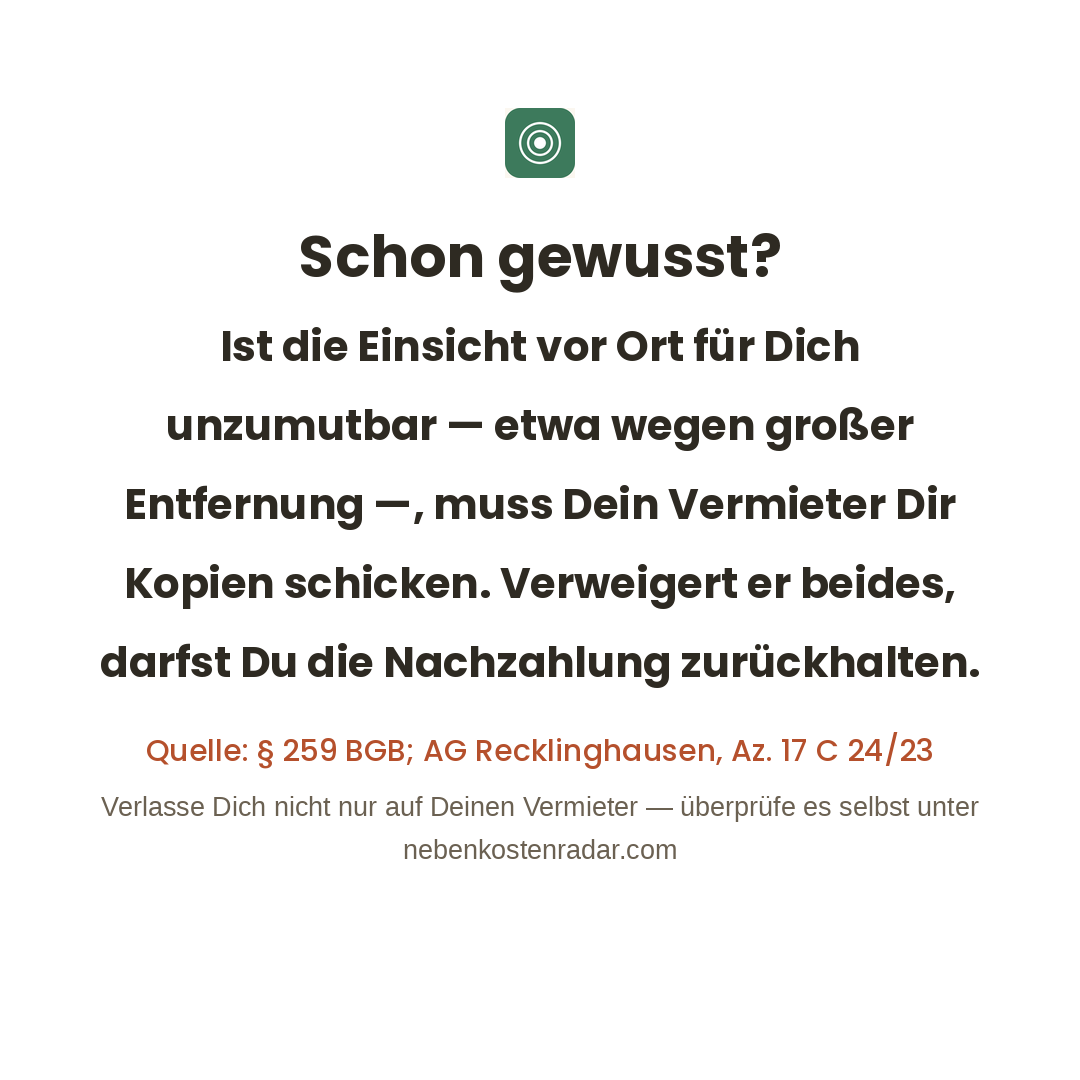
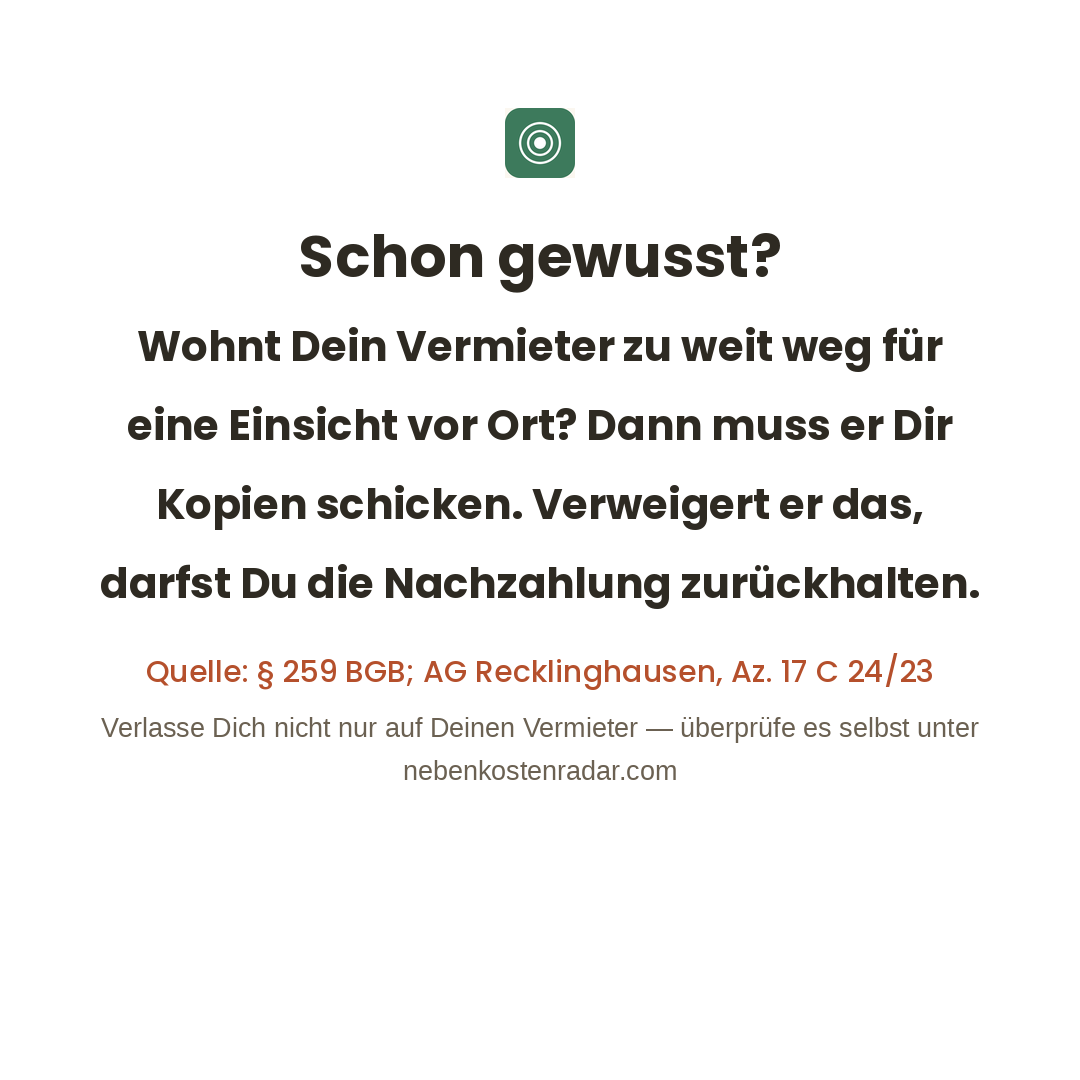
Add files via upload

Changed region(s): [[0.0917, 0.5194, 0.9167, 0.7944], [0.0917, 0.3667, 0.8861, 0.4889], [0.1222, 0.3056, 0.8861, 0.3361]]

diff --git a/planung/businessplan-umsatzprognose.md b/planung/businessplan-umsatzprognose.md
@@ -120,11 +120,43 @@ Größte Unsicherheit, aber auch der Zeitraum, in dem SEO laut Recherche "volle 
 | Anbieter | Preis | Modell | Positionierung |
 |---|---|---|---|
 | **Mineko** | Ab 49 € (Vollprüfung), kostenlose Erstscheinschätzung | Manuelle Expertenprüfung, 24+ Prüfer | Marktführer, teuer, ausführlich (ca. 30-seitiger Bericht) |
-| **NebenkostenPro** | 5 € | KI-basiert, Ergebnis in Minuten | Direkter KI-Konkurrent, günstiger als NebenkostenRadar |
+| **NebenkostenPro** | Vorschau 0 €, Schnell-Check 7,90 €, Premium-Report 14,90 € | KI-basiert, Ergebnis in Minuten | Preis am 23.08.2026 direkt auf nebenkostenpro.de/preise geprüft — die zuvor hier stehenden 5 € waren veraltet (Quelle war eine Suchergebnis-Zusammenfassung, keine Primärquelle). Bedient zusätzlich Vermieter (Jahrespakete, Abrechnung erstellen) — zweites Standbein, das NKR nicht hat. |
 | **nebify** | Kostenloser Vorab-Check, Prüfbericht ab 14,90 € | KI-Vorab-Check + kostenpflichtiger Report (48 Std.), inkl. Widerspruchsschreiben | Von Stefan am 19.08.2026 entdeckt, sehr ähnlicher zeitlicher Bauzeitraum. Fast identischer Funnel (kostenloser Check → kostenpflichtiger Report + Musterbrief), aber **explizite Geld-zurück-Garantie** ("Wir finden nichts? Du zahlst nichts.") und durchgängige "Geld zurückfordern"-Sprache — genau die Positionierung, gegen die sich NebenkostenRadar bewusst entschieden hat (siehe Kommentar in `Welcome.jsx` zur gestrichenen "Ø 320€ mögliche Rückforderung"-Kachel). Verlangt zusätzlich den Mietvertrag (optional), hat veröffentlichte anonymisierte Fallbeispiele ("Unsere Fälle") und Trustpilot-Verlinkung — Social-Proof-Elemente, die NebenkostenRadar bisher nicht nutzt (Trustpilot-Account existiert, ist aber noch ohne Bewertungen/Aktivität; Stand 23.08.2026). Betreiber: Kolibri eCommerce GbR (Quelle: nebify.de, direkt eingesehen 19.08.2026). |
 | **NebenkostenRadar** | 9,99 € / 12,99 € | KI-basiert, automatisiert | Zwischen NebenkostenPro (billiger) und Mineko/nebify (teurer bzw. mit Geld-zurück-Versprechen) |
 
 ([Quelle Mineko/NebenkostenPro: Anbietervergleich](https://www.heizkostenchecker.de/blog/nebenkostenabrechnung-pruefen-lassen-anbieter-test), nicht selbst verifiziert, nur eine externe Quelle — bei einer wichtigen Positionierungsentscheidung würde ich das noch mit 1–2 weiteren Quellen gegenchecken. nebify-Angaben dagegen direkt von nebify.de selbst eingesehen, damit Primärquelle.)
+
+### 5.1 Vertiefte Konkurrenzanalyse (23.08.2026, alle drei Anbieter direkt besucht)
+
+Alle Angaben unten stammen aus einem direkten Besuch der jeweiligen Website am 23.08.2026, nicht aus Sekundärquellen.
+
+**Was die Konkurrenz besser kann:**
+
+- **Mineko**: Skalierte Vertrauensbeweise. 149.000+ geprüfte Abrechnungen, 775 + 1.283 Bewertungen auf zwei Plattformen, echte namentliche Kundenstimmen mit Beträgen. Über 16 Rechtsschutzversicherungen empfehlen Mineko aktiv — das ist ein strukturell kostenloser Vertriebskanal, den NKR nicht hat und kaum kopieren kann (setzt Jahre an Beziehungsaufbau mit Versicherern voraus). Große SEO-Fläche: dutzende Ratgeber-Artikel, eigener Fristenrechner als interaktives Lead-Tool, städtespezifische Footer-Links (Berlin, München, Hamburg, Köln, Leipzig, Stuttgart, Bremen).
+- **NebenkostenPro**: Programmatische Stadt-Landingpages (z. B. "Nebenkostenabrechnung prüfen Hamburg", "…München") — eine skalierbare SEO-Taktik, die NKR aktuell nicht nutzt. Zusätzliches Geschäftsfeld: Vermieter-Jahrespakete und Abrechnung-Erstellung, nicht nur Prüfung. Betont explizit "Server in Deutschland" als Vertrauenssignal.
+- **nebify**: Sehr konkrete Social Proof: "Unsere Fälle" mit echten, anonymisierten Prüfergebnissen (Betrag, Datum, Stadt, konkrete Rechtsgrundlage, verlinkter Volltext). Interaktive Produkt-Vorschau direkt auf der Startseite (Beispiel-Prüfbericht mit echten Zahlen). Breite Zahlungsmethoden über Stripe (Visa, Mastercard, Amex, Apple Pay, Google Pay, PayPal, Klarna, SEPA) — deutlich mehr als NKRs zwei Payment Links. Geld-zurück-Garantie ist zentrales Werbeversprechen, mehrfach wiederholt.
+
+**Was NKR besser kann bzw. bewusst anders macht:**
+
+- Ehrliche Positionierung ohne Geld-zurück-Garantie (siehe Abschnitt 1 werbeplan-nkr.md) — Risiko bei nebify: die Garantie verspricht mehr, als eine automatisierte Prüfung im Einzelfall sicher halten kann.
+- Klare Trennung Auswertung / Auswertung+Brief+Steuer-Bonus zu einem Fixpreis (9,99 €/12,99 €) ohne Tarif-Dschungel — einfacher als NebenkostenPros Drei-Stufen-Tabelle mit Zusatz-eBook.
+- Steuer-Bonus-Hinweis (§ 35a EStG) als eigenständiges Merkmal — keiner der drei Wettbewerber bewirbt das vergleichbar prominent.
+
+**Was NKR übernehmen sollte (konkrete, umsetzbare Punkte):**
+
+1. Programmatische Stadt-Landingpages nach NebenkostenPro-Vorbild (z. B. "Nebenkostenabrechnung prüfen Berlin/Hamburg/München") — skaliert SEO ohne redaktionellen Mehraufwand pro Stadt, da Inhalt aus vorhandenen Richtwerten generierbar ist. Größerer Umsetzungsaufwand, für Backlog vormerken.
+2. Anonymisierte echte Fallbeispiele nach nebify-Vorbild ("Diese Abrechnung wurde geprüft, X € gefunden, Rechtsgrundlage Y") — sobald genug echte Kundenfälle mit Einwilligung vorliegen. Governance-frage: Einwilligung zur anonymisierten Veröffentlichung müsste sauber eingeholt werden (Datenschutz).
+3. Mehr Zahlungsmethoden prüfen (aktuell nur Stripe Payment Links) — Klarna/Apple Pay/Google Pay senken ggf. Kaufabbrüche, müsste technisch mit Stripe Checkout statt Payment Links geprüft werden.
+
+**Was strukturell zum jeweiligen Geschäftsmodell gehört, nicht übertragbar:**
+
+- Mineko: Rechtsschutzversicherer-Partnerschaften brauchen Jahre Beziehungsarbeit, kein kurzfristiger Hebel.
+- Mineko/NebenkostenPro: manuelle Experten (Mineko) bzw. Vermieter-Zusatzgeschäft (NebenkostenPro) sind eigene Geschäftsmodell-Entscheidungen, kein Feature-Nachbau.
+- nebify: Geld-zurück-Garantie ist eine bewusste Risikoentscheidung von nebify (Betreiber Kolibri eCommerce GbR), die NKR bereits geprüft und abgelehnt hat (siehe werbeplan-nkr.md Abschnitt 6).
+
+**Kalkulations-Einordnung:** NKR liegt preislich zwischen NebenkostenPro (7,90 €/14,90 €, direkter Konkurrent auf Augenhöhe) und Mineko/nebify (49 € bzw. ab 14,90 € mit Garantie-Aufschlag). Das bestätigt die bisherige Positionierung "zwischen NebenkostenPro und Mineko/nebify" weiterhin — Mineko ist wegen der Versicherer-Kanäle kein direkter Preisvergleich, da ein großer Teil der Kunden dort faktisch 0 € zahlt.
+
+**Randnotiz zur "jede zweite Abrechnung ist fehlerhaft"-Zahl:** nebify nennt jetzt selbst die genaue Quelle: „Deutscher Mieterbund e.V.; Mieterverein Düsseldorf e.V., Pressemitteilung 'Jede zweite Nebenkostenabrechnung ist fehlerhaft!' (08.10.2025)". Die Original-Pressemitteilung selbst bleibt trotz drei Versuchen nicht auffindbar. Gefunden dagegen: eine wortgleiche Meldung des Gießener Mietervereins vom 16.10.2023 (zwei Jahre früher, andere Stadt) mit derselben Formulierung. Das spricht dafür, dass es sich um eine wiederkehrende, von mehreren Mietervereinen über Jahre verwendete Faustregel handelt, nicht um eine einzelne, einmalige Studie — für eigene Verwendung auf der Website entsprechend als Faustregel, nicht als belastbare Studienzahl einordnen.
 
 Relevant für deine Positionierung: Es gibt bereits einen günstigeren KI-Wettbewerber (NebenkostenPro) und jetzt auch einen nahezu identischen mit aggressiverer Geld-zurück-Positionierung (nebify). "Von Mieter für Mieter" (dein bereits gewählter Vertrauens-Claim) und die Qualität/Verständlichkeit deiner Analyse sind vermutlich wichtigere Differenzierungsmerkmale als der Preis allein — bei 5 € Konkurrenz gewinnst du den Preiskampf nicht, und bei einer Geld-zurück-Garantie auch nicht das Werbeversprechen. Die ehrlichere, zurückhaltendere Positionierung (kein Geld-zurück-Versprechen, siehe Abschnitt weiter oben zu "Rechtssicher") wird durch nebifys Auftreten eher bestätigt als infrage gestellt — es ist jetzt eine bewusste Abgrenzung, kein reiner Vorsichtsgrund mehr.
 

diff --git a/planung/projektdokumentation-nkr.md b/planung/projektdokumentation-nkr.md
@@ -52,7 +52,7 @@ Offene/laufend zu pflegende Punkte stehen im CHANGELOG.md mit Datum — das blei
 Vollständige Analyse (Kosten, Umsatzprognose, Break-even, Wettbewerbsvergleich Mineko/NebenkostenPro/nebify, Zeitplan): **`planung/businessplan-umsatzprognose.md`**. Wichtigste Eckpunkte von dort:
 
 - Ziel realistisch eingeordnet: 250–1.000 Verkäufe/Jahr (Abschnitt 9), nicht als Behauptung, sondern als Spanne mit Annahmen
-- Wettbewerb: Mineko (≥49€, manuelle Prüfung), NebenkostenPro (5€, KI-basiert), nebify (kostenloser Vorab-Check, Prüfbericht ab 14,90€, Geld-zurück-Garantie, betrieben von Kolibri eCommerce GbR) — NKR positioniert sich bewusst zurückhaltender (keine Geld-zurück-Garantie, da diese ein Versprechen macht, das die automatisierte Prüfung nicht in jedem Fall halten kann)
+- Wettbewerb: Mineko (ab 49€ oder kostenlos über 16+ Rechtsschutzversicherer, manuelle Prüfung durch 24+ Prüfer, 149.000+ geprüfte Abrechnungen), NebenkostenPro (Vorschau 0€, Schnell-Check 7,90€, Premium-Report 14,90€, KI-basiert, zusätzlich Vermieter-Geschäft), nebify (kostenloser Vorab-Check, Prüfbericht ab 14,90€, Geld-zurück-Garantie, echte Fallbeispiele als Social Proof, betrieben von Kolibri eCommerce GbR) — NKR positioniert sich bewusst zurückhaltender (keine Geld-zurück-Garantie, da diese ein Versprechen macht, das die automatisierte Prüfung nicht in jedem Fall halten kann). Vertiefte Analyse (was übertragbar ist, was nicht) in `planung/businessplan-umsatzprognose.md` Abschnitt 5.1.
 
 ## 6. Marketing & Werbung
 
@@ -81,6 +81,7 @@ Stefans persönliche Aufwands-/Ertragsdokumentation für die eigene Steuererklä
 
 ## 9. Offene Punkte
 
+- **Backlog-Idee (nicht kurzfristig umsetzbar), 23.08.2026 aus Foren-Recherche**: Jahresvergleich Verbrauch — Nutzer in r/wohnen konnte einen plötzlichen Verbrauchsanstieg (Warmwasser +100 %, vermutlich defekter Zähler) nicht gegen die Abrechnung argumentieren. NKR vergleicht aktuell nur gegen DMB-Richtwerte, nicht gegen den eigenen Vorjahreswert. Setzt voraus, dass ein Nutzer mit Konto die Vorjahresabrechnung schon einmal erfasst hat — nur für wiederkehrende Nutzer sinnvoll, daher als späterer Ausbauschritt vormerken, nicht jetzt bauen.
 - ~~Neue weiße Hintergrundbilder für 6 geplante Werbe-Posts~~ — erledigt 22.08.2026: alle 13 benötigten Bilder per Python/Pillow (lokale Poppins-Schriftart, kein externes Tool) erzeugt. Ordner `marketing/meta-kampagne/instagram-content/` ist jetzt in `online gestellt/` (6 Dateien, tatsächlich live, Wortlaut mit echtem Insta-Stand abgeglichen) und `noch nicht online/` (8 Dateien) unterteilt.
-- nebify-Primärquelle (Mieterverein Düsseldorf, behauptetes Pressemitteilungsdatum 08.10.2025) nicht verifiziert — Fetch zweimal fehlgeschlagen
+- nebify-Primärquelle: nebify nennt auf der eigenen Seite jetzt die exakte Quelle ("Deutscher Mieterbund e.V.; Mieterverein Düsseldorf e.V., Pressemitteilung „Jede zweite Nebenkostenabrechnung ist fehlerhaft!", 08.10.2025"). Die Pressemitteilung selbst bleibt nach drei Versuchen nicht auffindbar. Gefunden: eine wortgleiche Meldung des Gießener Mietervereins vom 16.10.2023 (andere Stadt, zwei Jahre früher). Einordnung: vermutlich eine seit Jahren wiederkehrende Faustregel mehrerer Mietervereine, keine einzelne belegbare Studie — Details in `planung/businessplan-umsatzprognose.md` Abschnitt 5.1.
 - Stefans persönliche Steuerdaten (ShopWatcher-Status, Stripe-Umsätze, Gewerbeschein, laufende Abo-Kosten) noch nicht vollständig für Steuerleitfaden erfasst

diff --git a/marketing/meta-kampagne/content-kalender.md b/marketing/meta-kampagne/content-kalender.md
@@ -83,6 +83,23 @@ Neue Reihenfolge wie gewünscht: im Wechsel Werbe-Post / Schon-gewusst-Fakt. Ter
 > Verwaltungskosten dürfen nie auf Dich umgelegt werden — auch nicht die Kosten für die Abrechnung selbst. Quelle: § 1 Abs. 2 BetrKV.
 > #Nebenkosten #Mietrecht
 
+**15 (Schon gewusst) — Bild: `fakt_belegeinsicht-distanz_1080x1080.png`** (neu, 23.08.2026, aus Foren-Recherche)
+> Wohnt Dein Vermieter zu weit weg für eine Einsicht vor Ort? Dann muss er Dir Kopien schicken. Verweigert er das, darfst Du die Nachzahlung zurückhalten.
+> Verlasse Dich nicht nur auf Deinen Vermieter — überprüfe es selbst unter nebenkostenradar.com
+> #Mietrecht #Nebenkostenabrechnung
+
+**16 (Werbe) — Bild: `werbe_anwalt-lohnt-sich-nicht_1080x1080.png`** (neu, 23.08.2026, aus Foren-Recherche)
+> Anwalt bei 500 € Streitwert? Selbstbehalt frisst den Vorteil. Mit oder ohne Rechtsschutz bleibt bei kleinen Beträgen oft nichts übrig. Eine kostenlose Prüfung kostet Dich nichts.
+> #Nebenkostenabrechnung #Mietrecht
+
+## Recherche-Hinweis (23.08.2026)
+
+Posts 15 und 16 stammen aus einer echten Foren-Recherche (r/wohnen, aktiv — r/Mietrecht dagegen praktisch inaktiv, 9 wöchentliche Besucher, dort keine Zeit investieren). Drei reale, aktuelle Threads (3–11 Tage alt) ausgewertet:
+
+- Vermieter liefert nur eine selbst erstellte Excel-Tabelle statt ordentlicher Abrechnung, verweigert Belegeinsicht vor Ort und will nicht zusenden (Vermieter wohnt 2+ Std. entfernt) → Grundlage für Post 15. Rechtslage dazu gegengeprüft (nicht die vereinfachte Reddit-Aussage "Belegeinsicht muss immer in Wohnungsnähe stattfinden" übernommen — das stimmt so nicht): Regel ist Einsicht beim Vermieter/der Hausverwaltung vor Ort (AG Recklinghausen, Az. 17 C 24/23), Ausnahme bei unzumutbarer Distanz.
+- Wiederkehrende Frage: "Lohnt sich ein Anwalt bei niedrigem Streitwert (~500 €)?" → Grundlage für Post 16.
+- Unerklärlicher Verbrauchsanstieg (Warmwasser +100 %, vermutlich defekter Zähler) → siehe Backlog-Idee "Jahresvergleich Verbrauch" in `planung/projektdokumentation-nkr.md` Abschnitt 9, nicht kurzfristig umsetzbar (braucht Vorjahresdaten im Konto).
+
 ## 1 Tipp für mehr "Leben" ohne Mehraufwand
 
 Kommentiere deinen eigenen Post kurz nach dem Veröffentlichen einmal selbst — ein kleiner Zusatzgedanke, keine Werbung ("Bin gespannt, wie viele bei sich auch was finden"). Das wirkt aktiver als ein stiller Post und ist in 10 Sekunden erledigt.
